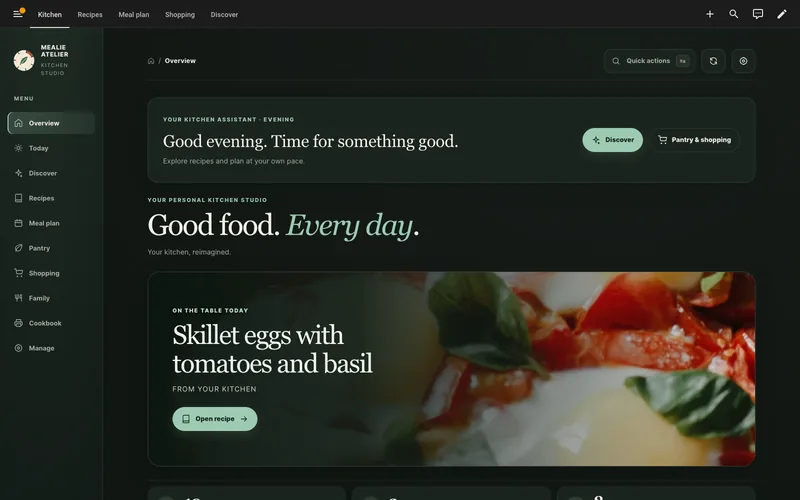
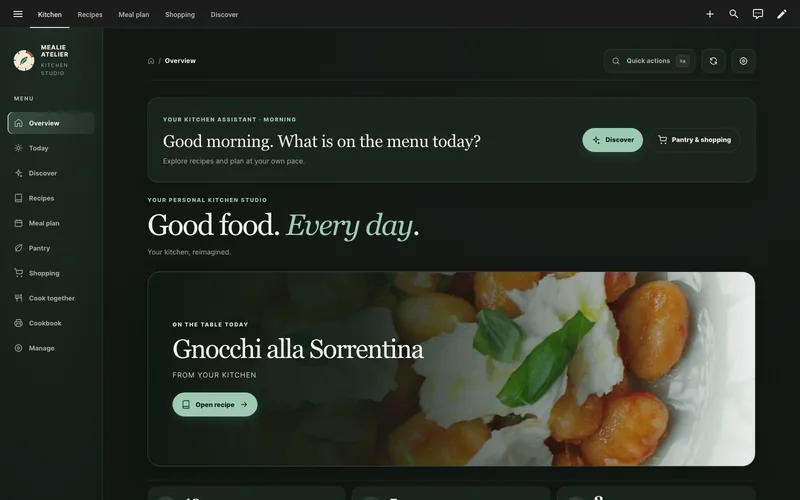
Name the family view Cook together on the product page and showcase shots
Recapture the English HA dashboard shots against the current card bundle,
fix the page copy and hero capture record, and make the HA capture gate
reject a bare Family or Familie nav label. Guard image decode against hangs.

diff --git a/scripts/capture-ha-showcase.py b/scripts/capture-ha-showcase.py
@@ -42,6 +42,11 @@ DEVICES = {
     "ha-phone-dashboard": dict(viewport=(393, 852), scale=720 / 393, mobile=True),
 }
 STALE = re.compile(r"Cook ideas|Meal planner|Family cooking")
+# The family view is called Cook together / Gemeinsam kochen; a bare Family or Familie nav label is an old bundle.
+STALE_NAV = {
+    "en": re.compile(r"(?:^| \| )(Family)(?= \| |$)"),
+    "de": re.compile(r"(?:^| \| )(Familie)(?= \| |$)"),
+}
 ENGLISH_LEAK = re.compile(r"KITCHEN STUDIO|\bMENU\b|\b(Overview|Today|Recipes|Shopping|Cookbook|Manage|Quick actions)\b")
 GERMAN_LEAK = re.compile(r"KÜCHENSTUDIO|\bMENÜ\b|\b(Übersicht|Heute|Rezepte|Einkaufsliste|Kochbuch|Verwalten|Schnellzugriff)\b")
 
@@ -78,7 +83,8 @@ def settle(page):
     page.wait_for_function("!document.getElementById('ha-launch-screen')", timeout=60_000)
     page.wait_for_load_state("networkidle")
     for img in page.locator("mealie-atelier-card img >> visible=true").all():
-        img.evaluate("img => img.decode().catch(() => null)")
+        # A lazy image that never loads must not hang the run: decode() has no timeout of its own.
+        img.evaluate("img => Promise.race([img.decode().catch(() => null), new Promise((done) => setTimeout(done, 5000))])")
     page.wait_for_timeout(1500)
 
 
@@ -122,6 +128,7 @@ def main():
                         "() => { const out = []; const walk = (r) => { for (const e of r.querySelectorAll('*')) { if (e.shadowRoot) walk(e.shadowRoot); if (!e.children.length && e.textContent.trim() && e.getBoundingClientRect().width) out.push(e.textContent.trim()); } }; walk(document); return out.join(' | '); }"
                     )
                     assert not STALE.findall(text), f"{loc}/{name}: stale names {STALE.findall(text)}"
+                    assert not STALE_NAV[loc].findall(text), f"{loc}/{name}: old view name {STALE_NAV[loc].findall(text)}"
                     leak = (ENGLISH_LEAK if loc == "de" else GERMAN_LEAK).findall(text)
                     assert not leak, f"{loc}/{name}: other language {leak}"
                     save(Image.open(io.BytesIO(page.screenshot())).convert("RGB"), name, loc)
